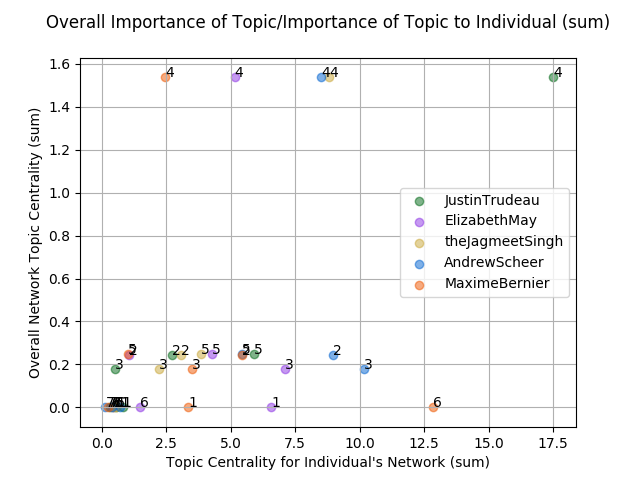
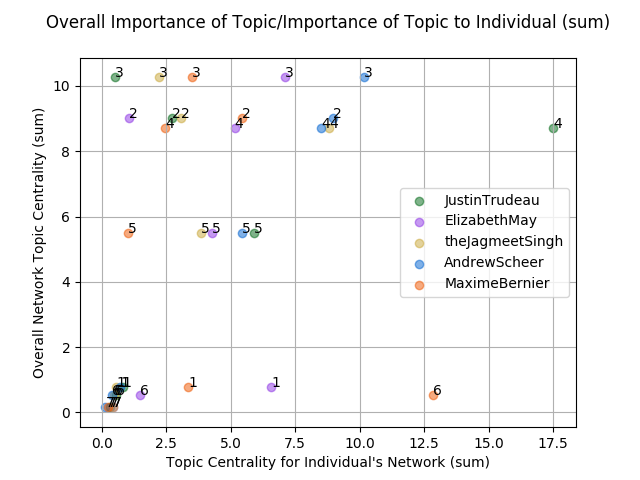
Updated centrality measures

diff --git a/graph/centrality_measures.py b/graph/centrality_measures.py
@@ -34,11 +34,9 @@ def centrality_per_topic(G, username=None, measure='mean'):
                     topic_centrality[topic].append(node_centrality)
                 else:
                     topic_centrality[topic] = [node_centrality]
-    all_topic_centralities = np.concatenate(
-        [centrality for _, centrality in topic_centrality.items()]).ravel()
+    all_topic_centralities = np.concatenate([centrality for _, centrality in topic_centrality.items()]).ravel()
     average_centrality = np.mean(all_topic_centralities)
     std_dev = np.std(all_topic_centralities)
-
     for topic, centrality_list in topic_centrality.items():
         if measure == 'zscore':
             # Calculate the z-score for each tweet of topic i relative to the average tweet centrality for the entire graph (or subgraph give).
@@ -88,7 +86,7 @@ def plot_dual_centralities(overall_net_cent, individaul_cents, expand=False, use
         ax.spines['bottom'].set_position('zero')
         ax.spines['left'].set_position('zero')
         ax.spines['right'].set_color('none')
-        ax.axis(xmin=-2, xmax=2, ymin=-2, ymax=2)
+        ax.axis(xmin=-1, xmax=1, ymin=-1, ymax=1)
         ax.set_xlabel('Topic Centrality for Individual\'s Network ({})'.format(measure), labelpad=125)
         ax.set_ylabel('Overall Network Topic Centrality ({})'.format(measure), labelpad=165)
     else:
@@ -122,30 +120,31 @@ def plot_dual_centralities(overall_net_cent, individaul_cents, expand=False, use
 if __name__ == "__main__":
     usernames = sys.argv[1:] if sys.argv[1:] else [
         "JustinTrudeau", "ElizabethMay", "theJagmeetSingh", "AndrewScheer", "MaximeBernier"]
-    G = Graph(usernames, n=10).G
-    sum_overall_topic_centralities = centrality_per_topic(G, measure='sum')
-    mean_overall_topic_centralities = centrality_per_topic(G, measure='mean')
+    G = Graph(usernames).G
+    # sum_overall_topic_centralities = centrality_per_topic(G, measure='sum')
+    # mean_overall_topic_centralities = centrality_per_topic(G, measure='mean')
     zscore_overall_topic_centralities = centrality_per_topic(
         G, measure='zscore')
-    sum_leader_cents = []
-    mean_leader_cents = []
+
+    # sum_leader_cents = []
+    # mean_leader_cents = []
     zscore_leader_cents = []
     for username in usernames:
         singl_leader_g = Graph([username]).G
-        sum_leader_cents.append(centrality_per_topic(
-            singl_leader_g, measure='sum'))
-        mean_leader_cents.append(centrality_per_topic(
-            singl_leader_g, measure='mean'))
+        # sum_leader_cents.append(centrality_per_topic(
+        #     singl_leader_g, measure='sum'))
+        # mean_leader_cents.append(centrality_per_topic(
+        #     singl_leader_g, measure='mean'))
         zscore_leader_cents.append(centrality_per_topic(
             singl_leader_g, measure='zscore'))
-    plot_dual_centralities(sum_overall_topic_centralities,
-                           sum_leader_cents, expand=False, usernames=usernames, measure='sum')
-    plot_dual_centralities(sum_overall_topic_centralities,
-                           sum_leader_cents, expand=True, usernames=usernames, measure='sum')
-    plot_dual_centralities(mean_overall_topic_centralities,
-                           mean_leader_cents, expand=False, usernames=usernames, measure='mean')
-    plot_dual_centralities(mean_overall_topic_centralities,
-                           mean_leader_cents, expand=True, usernames=usernames, measure='mean')
+    # plot_dual_centralities(sum_overall_topic_centralities,
+    #                        sum_leader_cents, expand=False, usernames=usernames, measure='sum')
+    # plot_dual_centralities(sum_overall_topic_centralities,
+    #                        sum_leader_cents, expand=True, usernames=usernames, measure='sum')
+    # plot_dual_centralities(mean_overall_topic_centralities,
+    #                        mean_leader_cents, expand=False, usernames=usernames, measure='mean')
+    # plot_dual_centralities(mean_overall_topic_centralities,
+    #                        mean_leader_cents, expand=True, usernames=usernames, measure='mean')
     plot_dual_centralities(zscore_overall_topic_centralities,
                            zscore_leader_cents, expand=False, usernames=usernames, measure='zscore')
     plot_dual_centralities(zscore_overall_topic_centralities,
